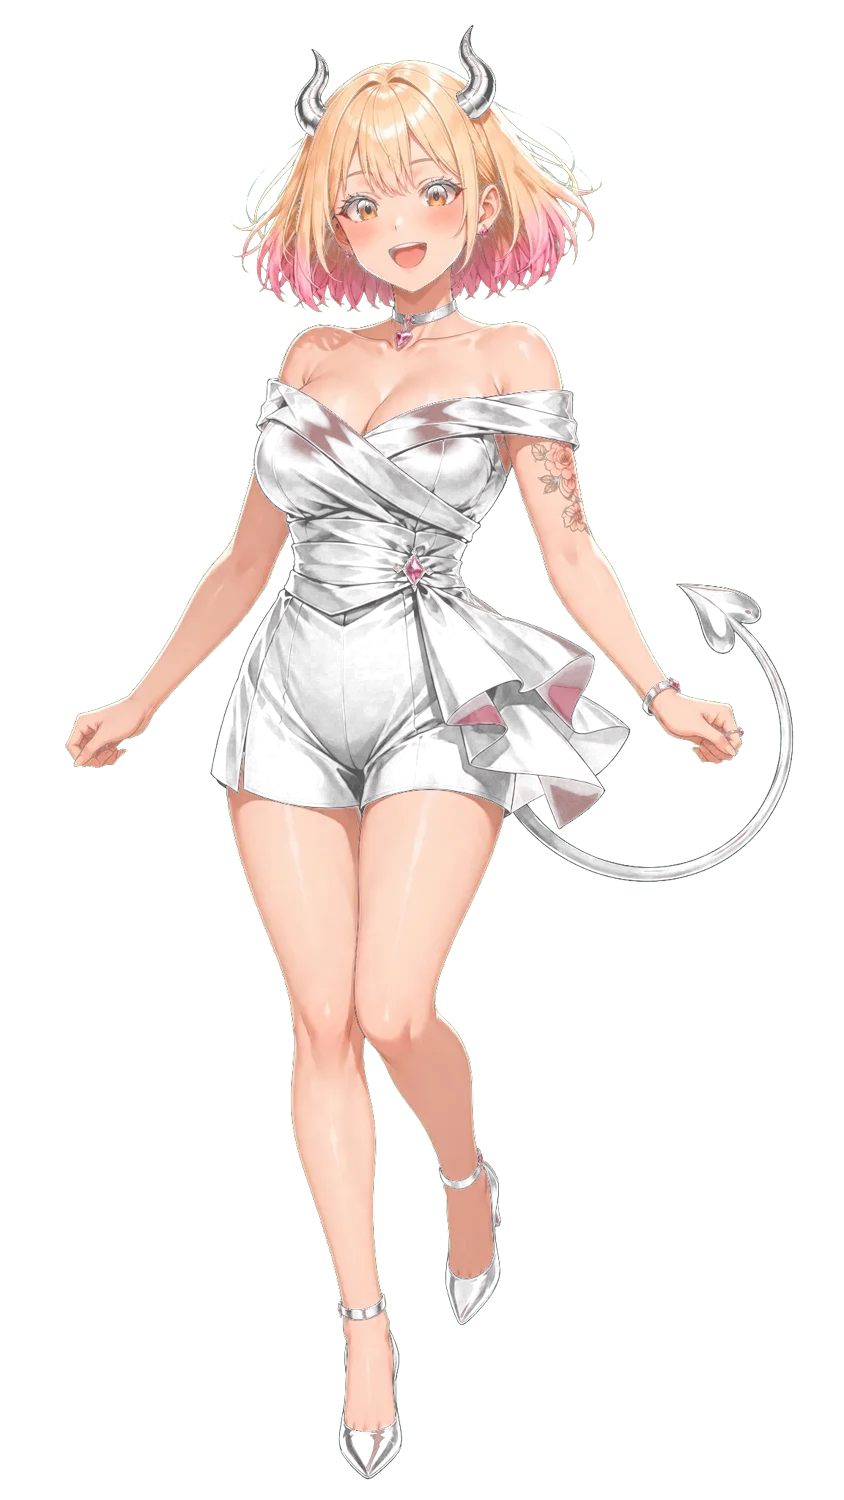
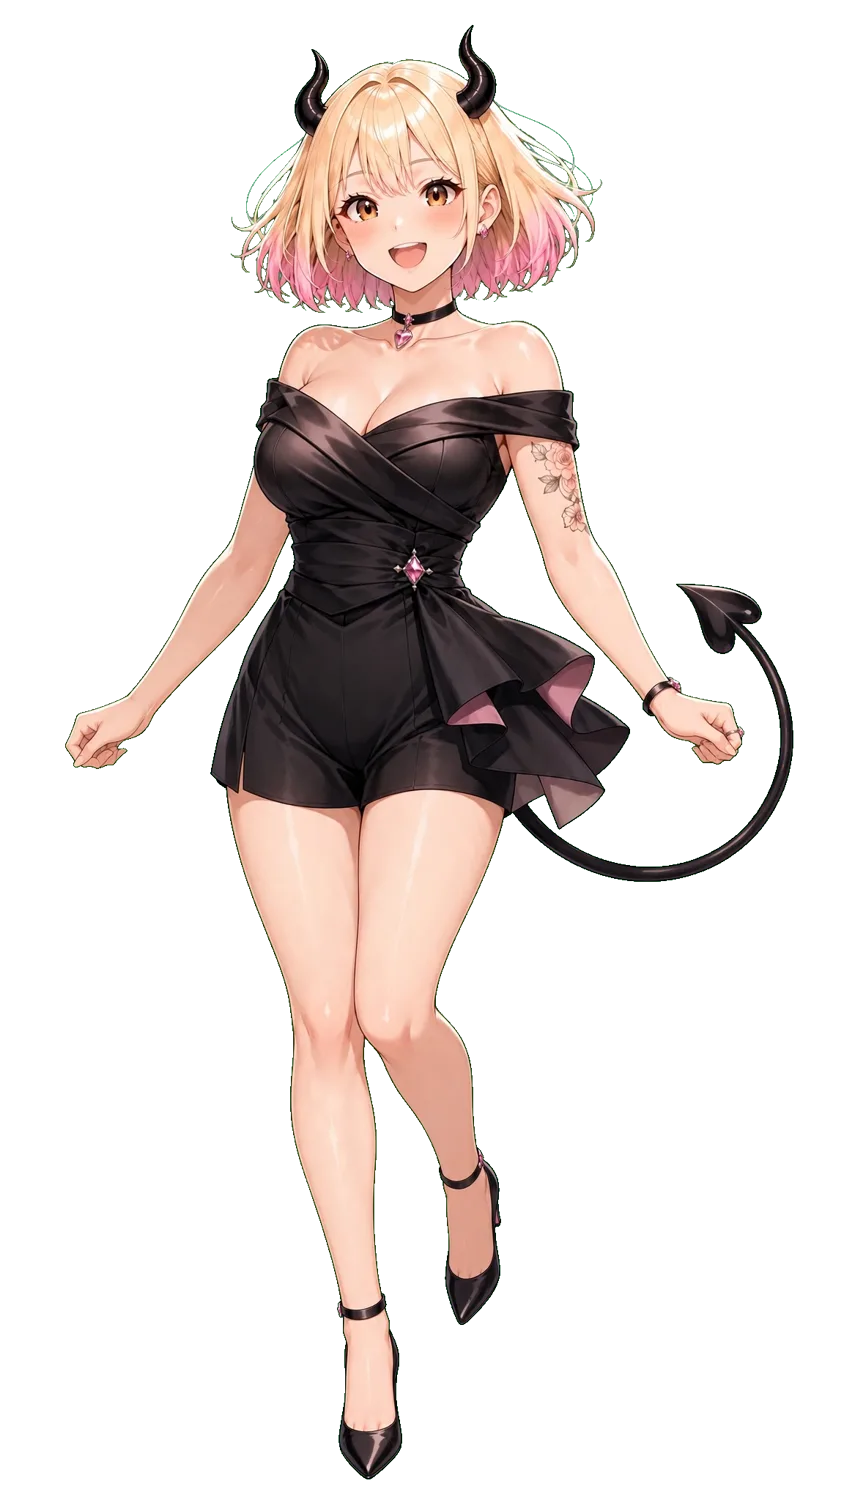
v2修正: RINA/MAYUの色抜け・フッターロゴ・顔アイコンサイズ
- 背景キー許容値を調整(RINA青0.15/MAYU緑0.17)し、黒衣装が銀色に抜ける不具合を修正。カットアウト再生成
- フッターロゴを白版(logo_main_white.webp)に。濃色背景で深紫が埋もれる問題を解消
- フェイスアイコンのRAY/MAYU/AYAを詰めて拡大し、RINA/HIKA/KOTOとサイズ統一

diff --git a/assets/js/site.js b/assets/js/site.js
@@ -61,7 +61,7 @@
   footer.innerHTML =
     '<div class="container">' +
       '<div class="f-brand">' +
-        '<img src="assets/webp/logo_main.webp" alt="SuccuChan">' +
+        '<img src="assets/webp/logo_main_white.webp" alt="SuccuChan">' +
         '<p class="f-copy">AIから生まれた6人のキャラクターが、人間界を知り、経験していくCharacter IP。</p>' +
         '<div class="sns">' + SNS.map(function (s) {
           return '<a href="' + s.href + '" target="_blank" rel="noopener" aria-label="' + s.label + '">' + snsSvg(s.d) + "</a>";
